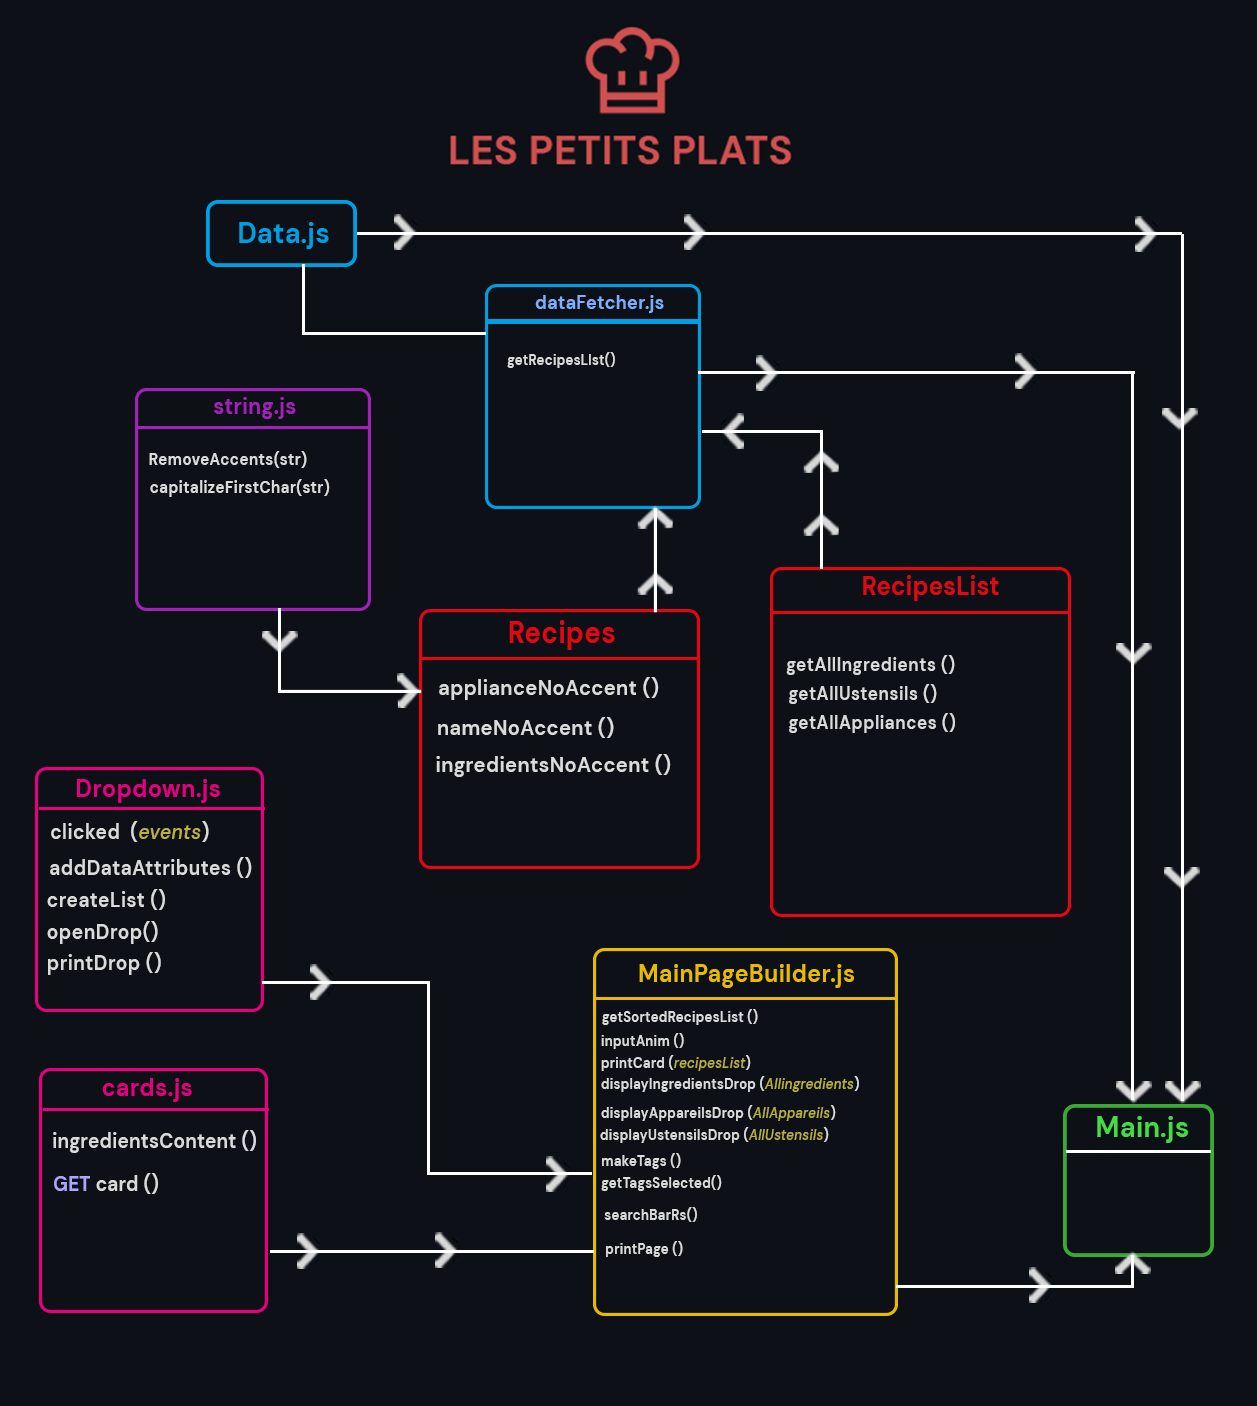
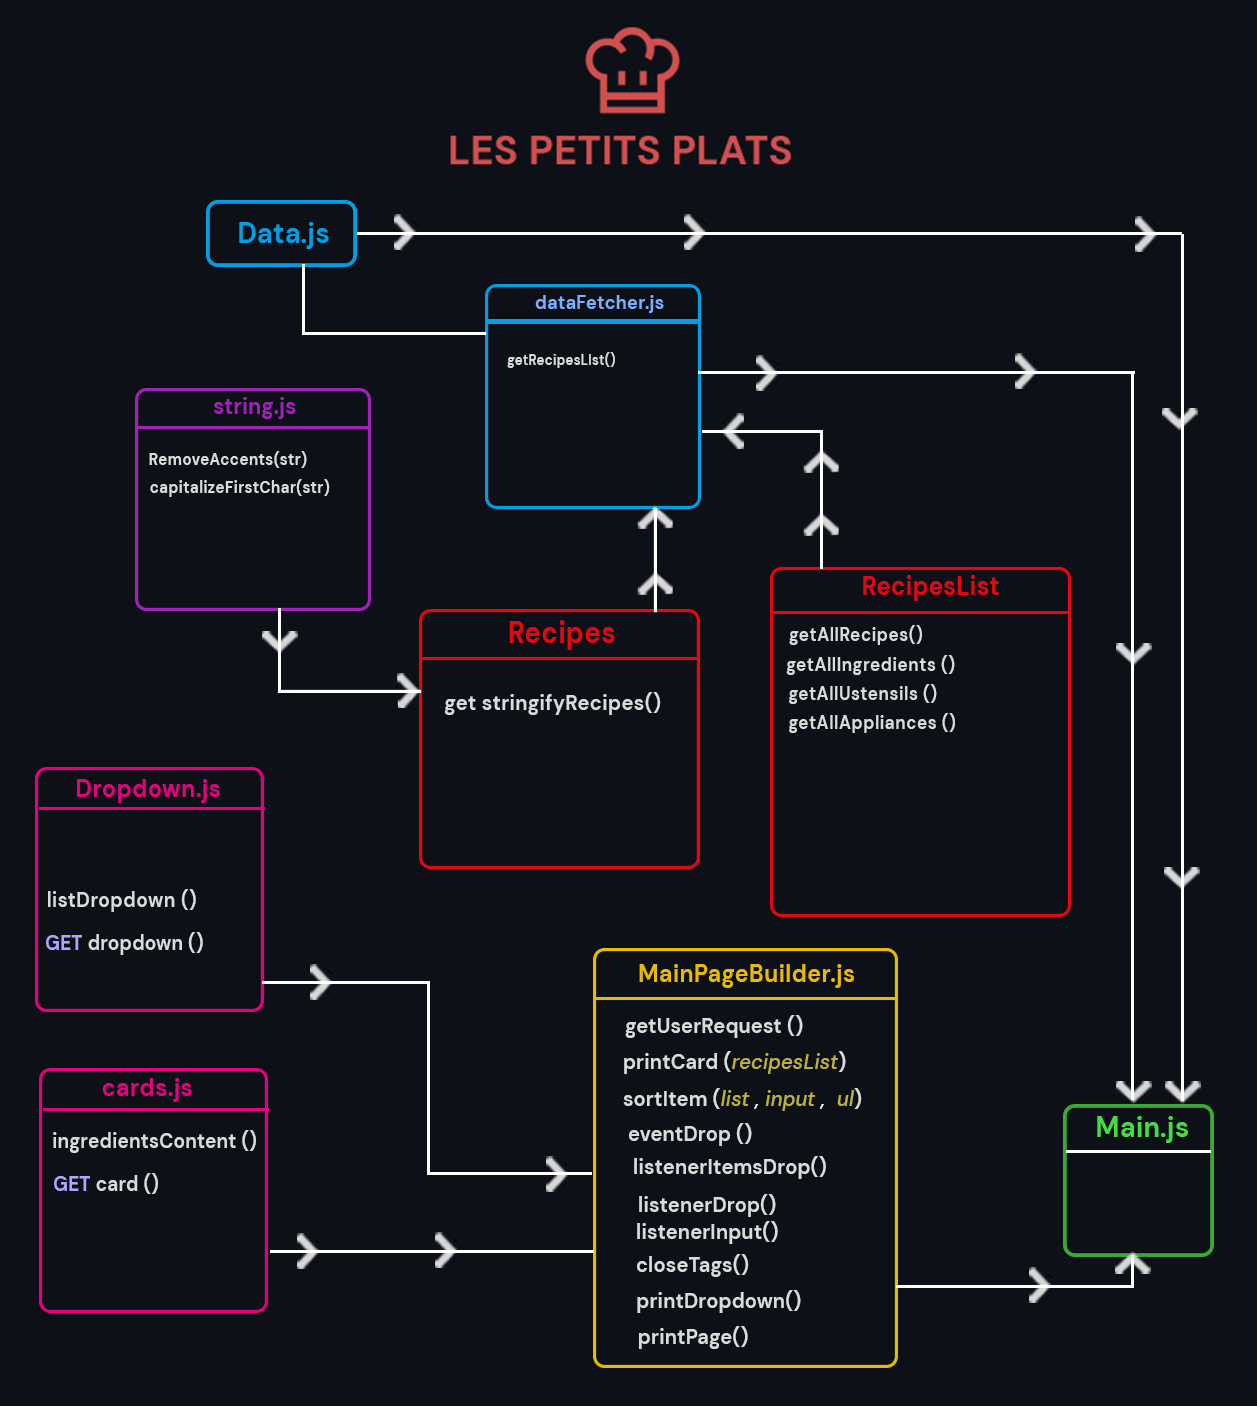
modif plan app read me

diff --git a/APP/class/MainPageBuilder.js b/APP/class/MainPageBuilder.js
@@ -18,7 +18,6 @@ export class MainPageBuilder {
 
     return {
       userInput: searchBar.value.trim(),
-      // tags: this.tagSelecteed.join(" ").trim(),
       tags: this.tagSelecteed,
       inputIngr: searchIngr.value.trim(),
       inputAppr: searchAppr.value.trim(),
@@ -37,14 +36,12 @@ export class MainPageBuilder {
     }
 
     if (recipesList.length === 0) {
-      htmlContent = `<div class="message">
-      <p class="message-txt">Aucune recette ne correspond à votre critère… </p>
-      <p class="message-exp">vous pouvez
-      chercher « tarte aux pommes », « poisson », etc.</p>
-
-    <button   id ="close-msg"> <i class="far fa-window-close"></i></button>
-
-      </div>`;
+      htmlContent = `
+      <div class="message">
+        <p class="message-txt">Aucune recette ne correspond à votre critère… </p>
+        <p class="message-exp">vous pouvez chercher « tarte aux pommes », « poisson », etc.</p>
+      </div>
+      `;
     }
     cardsContainer.innerHTML = htmlContent;
 
@@ -185,7 +182,6 @@ export class MainPageBuilder {
   }
 
   listenerDrop() {
-    // console.log(this.getUserRequest());
     if (this.getUserRequest().tags.length > 0) {
       this.printCard(this.recipesList.search(this.getUserRequest()));
     } else {
@@ -257,8 +253,6 @@ export class MainPageBuilder {
           this.recipesList.getAllUstensils(),
           el
         ).dropdown;
-
-        // console.log(this.recipesList.getAllAppliance());
       } else {
         dropContainer.innerHTML += new Dropdown(
           this.recipesList.getAllAppliance(),
@@ -272,7 +266,6 @@ export class MainPageBuilder {
   }
 
   printPage() {
-    this.printCard(this.recipesList.getAllRecipes());
     this.printDropdown();
     this.listenerInput();
     this.listenerDrop();

diff --git a/sass/components/_message.scss b/sass/components/_message.scss
@@ -1,15 +1,14 @@
 .message {
-  background-color: $grey;
+  // background-color: $grey;
   width: 100%;
   color: $primary;
   position: relative;
-  padding: 1rem;
-  border-radius: 10px;
+
   margin-top: 2rem;
   animation: flip-in-hor-top 0.7s cubic-bezier(0.25, 0.46, 0.45, 0.94) both;
 
   .message-txt {
-    font-size: 2.2rem;
+    font-size: 2rem;
     font-weight: bold;
     text-align: center;
   }
@@ -17,15 +16,16 @@
     text-align: center;
     font-size: 1.4rem;
     width: 100%;
+    margin-top: 1rem;
   }
-  button {
-    color: $primary;
-    position: absolute;
-    top: 13%;
-    right: 3%;
-    i {
-      font-weight: bolder;
-      font-size: 2rem;
-    }
-  }
+  // button {
+  //   color: $primary;
+  //   position: absolute;
+  //   top: 13%;
+  //   right: 3%;
+  //   i {
+  //     font-weight: bolder;
+  //     font-size: 2rem;
+  //   }
+  // }
 }

diff --git a/sass/main.css b/sass/main.css
@@ -770,19 +770,16 @@ header .header-logo h1 {
 }
 
 .message {
-  background-color: #e7e7e7;
   width: 100%;
   color: #d04f4f;
   position: relative;
-  padding: 1rem;
-  border-radius: 10px;
   margin-top: 2rem;
   -webkit-animation: flip-in-hor-top 0.7s cubic-bezier(0.25, 0.46, 0.45, 0.94) both;
           animation: flip-in-hor-top 0.7s cubic-bezier(0.25, 0.46, 0.45, 0.94) both;
 }
 
 .message .message-txt {
-  font-size: 2.2rem;
+  font-size: 2rem;
   font-weight: bold;
   text-align: center;
 }
@@ -791,17 +788,6 @@ header .header-logo h1 {
   text-align: center;
   font-size: 1.4rem;
   width: 100%;
-}
-
-.message button {
-  color: #d04f4f;
-  position: absolute;
-  top: 13%;
-  right: 3%;
-}
-
-.message button i {
-  font-weight: bolder;
-  font-size: 2rem;
+  margin-top: 1rem;
 }
 /*# sourceMappingURL=main.css.map */
